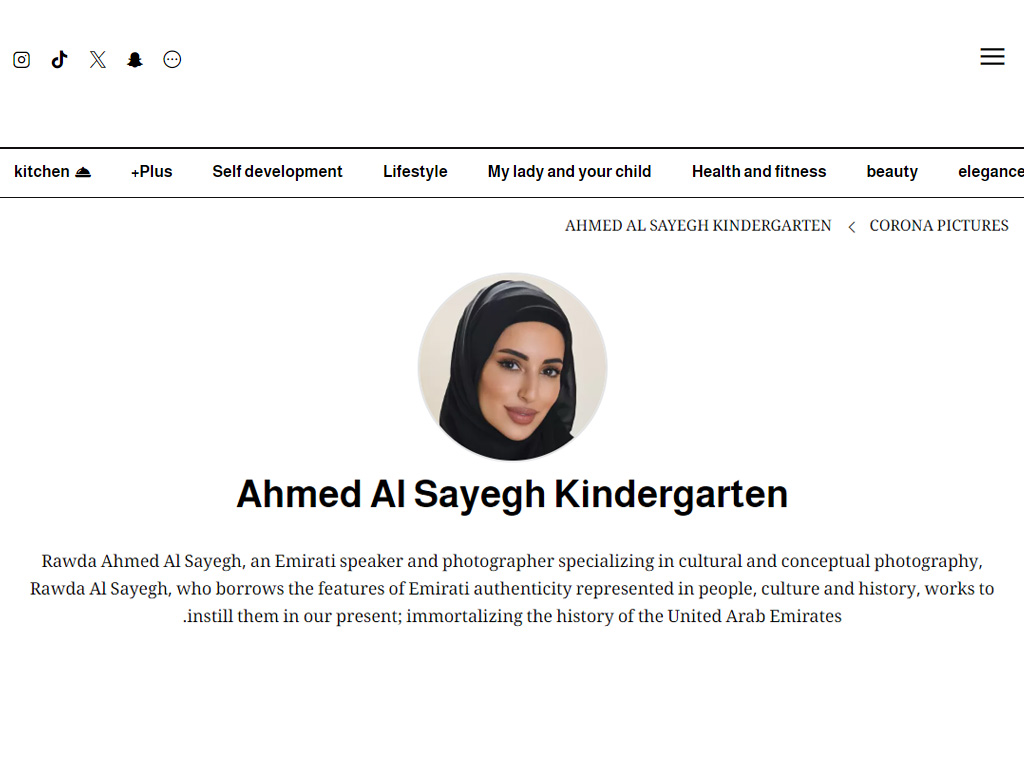
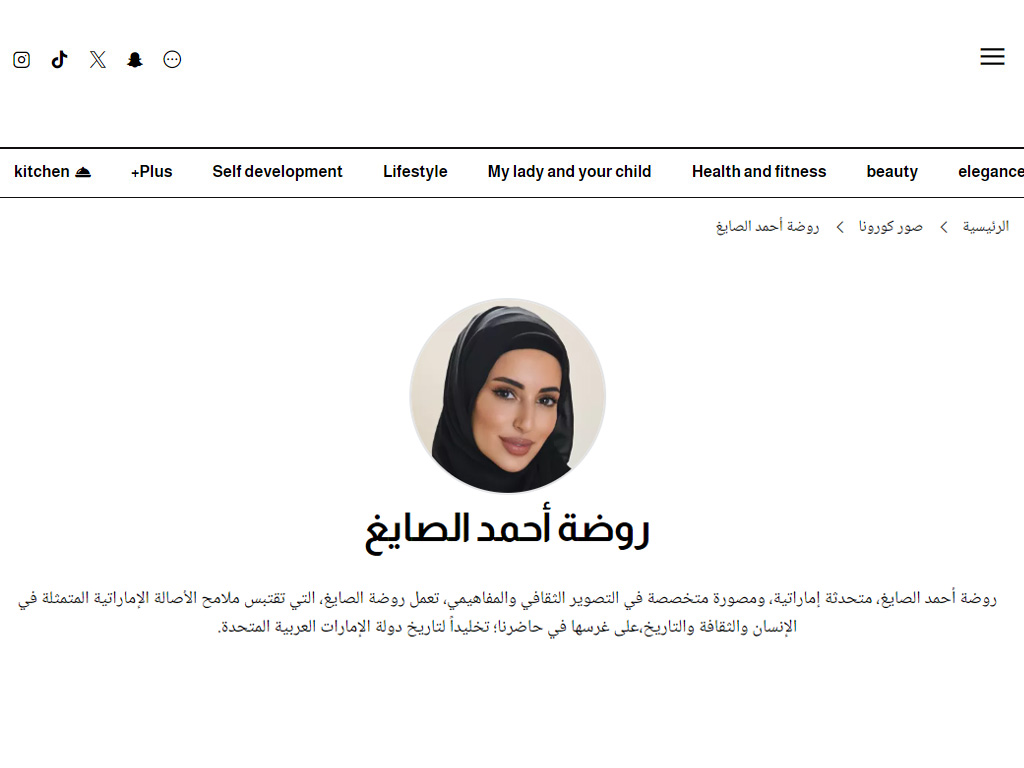
Client Comments done for Features

Changed region(s): [[0.0312, 0.3438, 0.9688, 0.8438], [0.5625, 0.2812, 1.0, 0.3125]]

diff --git a/index.html b/index.html
@@ -489,7 +489,7 @@
                 <img src="assets/img/portfolio/app-1.jpg" class="img-fluid" alt="">
                 <div class="portfolio-info">
                   <h4>Marie Claire</h4>
-                  <p>I can do it because you can do it</p>
+                  <p>“I can achieve because you achieved”</p>
                   <a href="assets/img/portfolio/app-1.jpg" title="EDITORIALS" data-gallery="portfolio-gallery-app" class="glightbox preview-link"><i class="bi bi-zoom-in"></i></a>
                   <a href="https://marieclairearabia.com/انا-قدّها-لأنج-كنتي-قدّها" title="More Details" class="details-link" target="_blank" rel="noopener noreferrer"><i class="bi bi-link-45deg"></i></a>
                 </div>
@@ -538,7 +538,7 @@
                 <img src="assets/img/portfolio/app-2.jpg" class="img-fluid" alt="">
                 <div class="portfolio-info">
                   <h4>Marie Claire</h4>
-                  <p>Rawda Al Sayegh to Emirati Women: You are an ambassador for a great country</p>
+                  <p>Rowdha Alsayegh to Emirati Women: “You are an ambassador of a great country”</p>
                   <a href="assets/img/portfolio/app-2.jpg" title="EDITORIALS" data-gallery="portfolio-gallery-app" class="glightbox preview-link"><i class="bi bi-zoom-in"></i></a>
                   <a href="https://marieclairearabia.com/روضة-الصايغ-للمرأة-الإماراتية-أنت-سفي" title="More Details" class="details-link" target="_blank"
                   rel="noopener noreferrer"><i class="bi bi-link-45deg"></i></a>
@@ -565,7 +565,7 @@
                   <h4>Museum of The Future متحف المستقبل</h4>
                   <p>Stories of Dubai: How the City Shapes an Artist’s Perspective</p>
                   <a href="assets/img/portfolio/branding-2.jpg" title="SPOTLIGHT" data-gallery="portfolio-gallery-branding" class="glightbox preview-link"><i class="bi bi-zoom-in"></i></a>
-                  <a href="#" title="More Details" class="details-link"  target="_blank" rel="noopener noreferrer"><i class="bi bi-link-45deg"></i></a>
+                  <a href="https://www.youtube.com/watch?v=PIJDunRQwEE" title="More Details" class="details-link"  target="_blank" rel="noopener noreferrer"><i class="bi bi-link-45deg"></i></a>
                 </div>
               </div>
             </div><!-- End Portfolio Item -->
@@ -601,7 +601,7 @@
                 <img src="assets/img/portfolio/product-3.jpg" class="img-fluid" alt="">
                 <div class="portfolio-info">
                   <h4>Emirates Today</h4>
-                  <p>Rawda Al Sayegh: I am good at drawing with words and camera</p>
+                  <p>Rowdha Alsayegh: “I can express with with words and a camera”</p>
                   <a href="assets/img/portfolio/product-3.jpg" title="ARTICLES" data-gallery="portfolio-gallery-product" class="glightbox preview-link"><i class="bi bi-zoom-in"></i></a>
                   <a href="https://www.emaratalyoum.com/life/four-sides/2019-11-21-1.1276041" title="More Details" class="details-link" target="_blank" rel="noopener noreferrer"><i class="bi bi-link-45deg"></i></a>
                 </div>
@@ -627,7 +627,7 @@
                 <img src="assets/img/portfolio/app-4.jpg" class="img-fluid" alt="">
                 <div class="portfolio-info">
                   <h4>Haya</h4>
-                  <p>Rawda Ahmed Al-Sayegh: Life taught me not to limit myself to one field, but rather to search for my sources of strength and benefit from them</p>
+                  <p>Rowdha Alsayegh: Life taught me not to limit myself to one field, but rather to search for my sources of strength and benefit from them</p>
                   <a href="assets/img/portfolio/app-4.jpg" title="EDITORIALS" data-gallery="portfolio-gallery-app" class="glightbox preview-link"><i class="bi bi-zoom-in"></i></a>
                   <a href="https://haya-online.com/روضة-أحمد-الصايغ-الحياة-علمتني-أن-لا-أح" title="More Details" class="details-link" target="_blank"
                   rel="noopener noreferrer"><i class="bi bi-link-45deg"></i></a>
@@ -692,7 +692,7 @@
                 <img src="assets/img/portfolio/app-9.jpg" class="img-fluid" alt="">
                 <div class="portfolio-info">
                   <h4>Sayidaty</h4>
-                  <p>Ahmed Al Sayegh Kindergarten</p>
+                  <p>Rowdha Ahmad Alsayegh</p>
                   <a href="assets/img/portfolio/app-9.jpg" title="EDITORIALS" data-gallery="portfolio-gallery-app" class="glightbox preview-link"><i class="bi bi-zoom-in"></i></a>
                   <a href="https://www.sayidaty.net/category/main/صور-كورونا/المصورون/روضة-أحمد-الصايغ" title="More Details" class="details-link" target="_blank"
                   rel="noopener noreferrer"><i class="bi bi-link-45deg"></i></a>
@@ -705,7 +705,7 @@
                 <img src="assets/img/portfolio/product-4.jpg" class="img-fluid" alt="">
                 <div class="portfolio-info">
                   <h4>Al Bayan</h4>
-                  <p>UAE Flag.. Values and Aesthetics Revealed by Rawda Al Sayegh’s Camera</p>
+                  <p>UAE Flag.. Values and Aesthetics Revealed by Rowdha Alsayegh’s Camera</p>
                   <a href="assets/img/portfolio/product-4.jpg" title="ARTICLES" data-gallery="portfolio-gallery-product" class="glightbox preview-link"><i class="bi bi-zoom-in"></i></a>
                   <a href="https://www.albayan.ae/five-senses/culture/2018-03-13-1.3209408" title="More Details" class="details-link" target="_blank" rel="noopener noreferrer"><i class="bi bi-link-45deg"></i></a>
                 </div>
@@ -821,7 +821,7 @@
                 <img src="assets/img/portfolio/product-13.jpg" class="img-fluid" alt="">
                 <div class="portfolio-info">
                   <h4>Emirates Today</h4>
-                  <p>Emirati creatives from home: The difficult makes us stronger</p>
+                  <p>Emirati creatives from home: Hard times make us stronger</p>
                   <a href="assets/img/portfolio/product-13.jpg" title="ARTICLES" data-gallery="portfolio-gallery-product" class="glightbox preview-link"><i class="bi bi-zoom-in"></i></a>
                   <a href="https://www.emaratalyoum.com/life/four-sides/2020-03-30-1.1326829" title="More Details" class="details-link" target="_blank" rel="noopener noreferrer"><i class="bi bi-link-45deg"></i></a>
                 </div>
@@ -847,7 +847,7 @@
                 <img src="assets/img/portfolio/product-15.jpg" class="img-fluid" alt="">
                 <div class="portfolio-info">
                   <h4>Aletihad News Center</h4>
-                  <p>Rawda Al Sayegh, a young student, competes with senior photographers</p>
+                  <p>Rowdha Alsayegh, a young student competing with professional photographers</p>
                   <a href="assets/img/portfolio/product-15.jpg" title="ARTICLES" data-gallery="portfolio-gallery-product" class="glightbox preview-link"><i class="bi bi-zoom-in"></i></a>
                   <a href="https://www.aletihad.ae/articleamp/48599/2011/روضة-الصايغ-طالبة-صغيرة-تزاحم-كبار-المصورين" title="More Details" class="details-link" target="_blank" rel="noopener noreferrer"><i class="bi bi-link-45deg"></i></a>
                 </div>
@@ -860,7 +860,7 @@
                 <img src="assets/img/portfolio/product-16.jpg" class="img-fluid" alt="">
                 <div class="portfolio-info">
                   <h4>Emirates Today</h4>
-                  <p>Taqarab"... People's concerns and the" aesthetics of the Emirates</p>
+                  <p>“Taqarb” from emotions to the beauty of the UAE</p>
                   <a href="assets/img/portfolio/product-16.jpg" title="ARTICLES" data-gallery="portfolio-gallery-product" class="glightbox preview-link"><i class="bi bi-zoom-in"></i></a>
                   <a href="https://www.emaratalyoum.com/life/four-sides/2015-06-16-1.794153" title="More Details" class="details-link" target="_blank" rel="noopener noreferrer"><i class="bi bi-link-45deg"></i></a>
                 </div>
@@ -873,7 +873,7 @@
                 <img src="assets/img/portfolio/branding-4.jpg" class="img-fluid" alt="">
                 <div class="portfolio-info">
                   <h4>Dubai TV</h4>
-                  <p>Dubai this morning | Rawda Al Sayegh transforms the features of Emirati authenticity into creative photographs</p>
+                  <p>Dubai this morning | Rowdha Alsayegh transforms the features of Emirati authenticity into creative photographs</p>
                   <a href="assets/img/portfolio/branding-4.jpg" title="SPOTLIGHT" data-gallery="portfolio-gallery-branding" class="glightbox preview-link"><i class="bi bi-zoom-in"></i></a>
                   <a href="https://www.youtube.com/watch?v=_0eArqDb8qA" title="More Details" class="details-link" target="_blank"
                   rel="noopener noreferrer"><i class="bi bi-link-45deg"></i></a>
